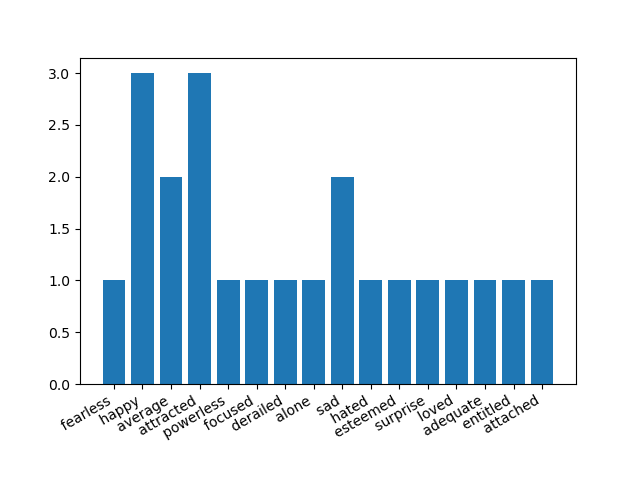
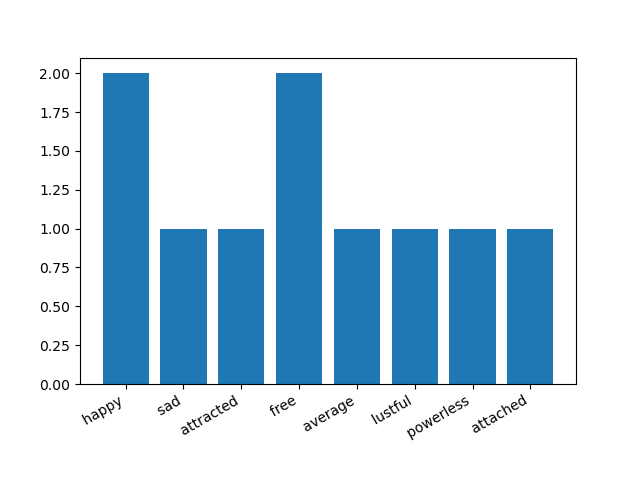
Add files via upload

diff --git a/SentimentAnalysis/twitter_analysis_final.py b/SentimentAnalysis/twitter_analysis_final.py
@@ -1,0 +1,106 @@
+ # Cleaning text steps
+# 1. create a txt file and take text from it
+# 2. convert the letter in lowercase
+# 3. remove punctuation like .,?
+
+import string
+from collections import Counter
+import matplotlib.pyplot as plt
+import tweepy
+import configparser
+#read configs
+config = configparser.ConfigParser()
+config.read('config.ini')
+api_key = config['twitter']['api_key']
+api_Key_Secret = config['twitter']['api_Key_Secret']
+access_token = config['twitter']['access_token']
+access_token_secret = config['twitter']['access_token_secret']
+
+# print(access_token_secret)
+
+#authentication
+auth = tweepy.OAuthHandler(api_key,api_Key_Secret)
+auth.set_access_token(access_token,access_token_secret)
+
+api = tweepy.API(auth)
+
+words = input("key_words = ")
+no = int(input("number = "))
+tweet_from_keyword = tweepy.Cursor(api.search_tweets,q=words,lang="en",tweet_mode = 'extended').items(no)
+list_tweet = [tweet for tweet in tweet_from_keyword]
+print(list_tweet)
+text_tweets=[]
+for tweet in list_tweet:
+    des = tweet.user.description
+    text_tweets.append(des)
+    print(des)
+
+
+public_tweet = api.home_timeline()
+# print(public_tweet[0].text)
+
+'''for tweets in public_tweet:
+    # print((tweets.text))
+    text_tweets.append(tweets.text)
+# print(text_tweets)
+
+# text = open('read.txt',encoding='utf-8').read()'''
+text = ''
+length = len(text_tweets)
+
+# print(string.punctuation)
+# print(lower_case)
+for i in range(0,length):
+    text = text + text_tweets[i] + " "
+lower_case = text.lower()
+
+'''
+str1: specifies list of char that need to be replaced
+str2: specifies the list of char which the char need to be replaced
+str3: specifies the list of char that need to be deleted
+returns: returns the translation table which specifies the conversions that can be used  
+'''
+cleaned_text = lower_case.translate(str.maketrans('','',string.punctuation))
+# print(cleaned_text)
+
+tokenized_words = cleaned_text.split()
+# print(tokenized_words)
+
+#stop words does not add any emotional meaning to stmt like i , was, that
+stop_words = ["i", "me", "my", "myself", "we", "our", "ours", "ourselves", "you", "your", "yours", "yourself",
+              "yourselves", "he", "him", "his", "himself", "she", "her", "hers", "herself", "it", "its", "itself",
+              "they", "them", "their", "theirs", "themselves", "what", "which", "who", "whom", "this", "that", "these",
+              "those", "am", "is", "are", "was", "were", "be", "been", "being", "have", "has", "had", "having", "do",
+              "does", "did", "doing", "a", "an", "the", "and", "but", "if", "or", "because", "as", "until", "while",
+              "of", "at", "by", "for", "with", "about", "against", "between", "into", "through", "during", "before",
+              "after", "above", "below", "to", "from", "up", "down", "in", "out", "on", "off", "over", "under", "again",
+              "further", "then", "once", "here", "there", "when", "where", "why", "how", "all", "any", "both", "each",
+              "few", "more", "most", "other", "some", "such", "no", "nor", "not", "only", "own", "same", "so", "than",
+              "too", "very", "s", "t", "can", "will", "just", "don", "should", "now"]
+
+final_words = []
+for i in tokenized_words:
+    if i not in stop_words:
+        final_words.append(i)
+# print(final_words)
+
+emotion_list = []
+with open('emotions.txt','r') as file:
+    for line in file:
+        clear_line = line.replace('\n','').replace(',','').replace("'",'').strip()
+        # print(clear_line)
+        word,emotion = clear_line.split(':')
+
+        if word in final_words:
+            emotion_list.append(emotion)
+
+# print(emotion_list)
+
+w = Counter(emotion_list)
+print(w)
+
+fig , ax1 = plt.subplots()
+ax1.bar(w.keys(),w.values())
+fig.autofmt_xdate()
+plt.savefig('graph.png')
+plt.show()

diff --git a/SentimentAnalysis/Twitter_analysis.py b/SentimentAnalysis/Twitter_analysis.py
@@ -1,0 +1,51 @@
+# import GetOldTweets3 as got
+#
+# def get_tweets():
+#     tweetCriteria = got.manager.TweetCriteria().setQuerySearch('corona') \
+#         .setSince("2020-05-01") \
+#         .setUntil("2021-09-30") \
+#         .setMaxTweets(1)
+#     tweet = got.manager.TweetManager.getTweets(tweetCriteria)[0]
+#     print(tweet.text)
+#
+# get_tweets()
+
+import tweepy
+import configparser
+#read configs
+config = configparser.ConfigParser()
+config.read('config.ini')
+api_key = config['twitter']['api_key']
+api_Key_Secret = config['twitter']['api_Key_Secret']
+access_token = config['twitter']['access_token']
+access_token_secret = config['twitter']['access_token_secret']
+
+# print(access_token_secret)
+
+#authentication
+auth = tweepy.OAuthHandler(api_key,api_Key_Secret)
+auth.set_access_token(access_token,access_token_secret)
+
+api = tweepy.API(auth)
+
+words = input("key_words = ")
+no = int(input("number = "))
+tweet_from_keyword = tweepy.Cursor(api.search_tweets,q=words,lang="en",tweet_mode = 'extended').items(no)
+list_tweet = [tweet for tweet in tweet_from_keyword]
+print(list_tweet)
+for tweet in list_tweet:
+    des = tweet.user.description
+    print(des)
+
+
+public_tweet = api.home_timeline()
+# public_tweet=tweet_from_keyword
+# print(public_tweet[0].text)
+
+
+
+# text_tweets=[]
+# for tweets in public_tweet:
+#     print((tweets.text))
+#     text_tweets.append(tweets.text)
+# print(text_tweets)
